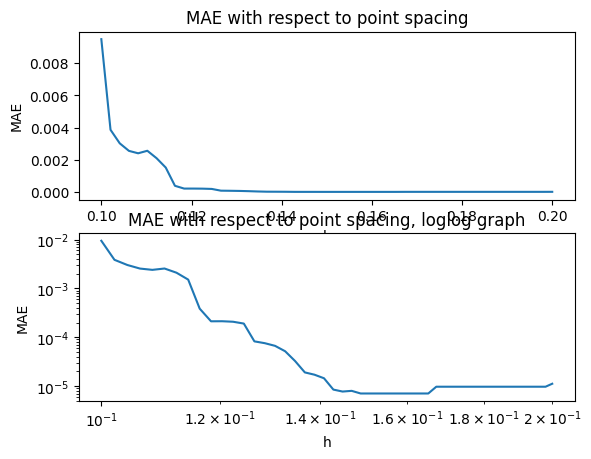
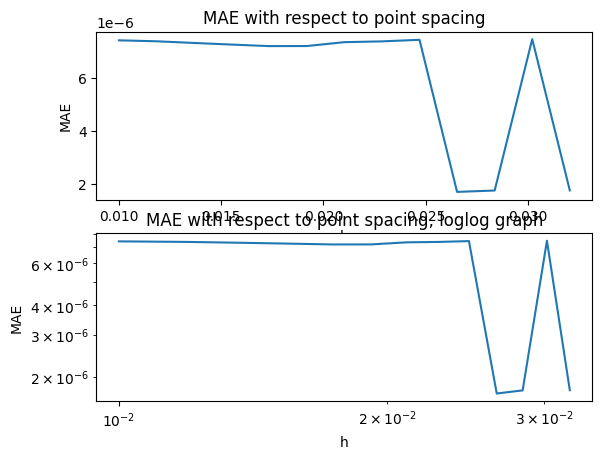
Inclusion of load config

diff --git a/src/PINN_V1/NN_Jax_PDE8.py b/src/PINN_V1/NN_Jax_PDE8.py
@@ -39,7 +39,7 @@ import scipy
 import pickle
 
 # Set and verify device
-jax.config.update('jax_platform_name', 'gpu')
+jax.config.update('jax_platform_name', 'cpu')
 jax.config.update("jax_enable_x64", True)
 #jax.config.update('jax_disable_jit', True) # Desactive the compilation for better debugging
 print(jax.lib.xla_bridge.get_backend().platform)
@@ -381,16 +381,11 @@ layers = [n_features,30,n_targets]      # Layers structure
 num_batches = 20000
 report_steps = 1
 learning_rate = 0.000320408173
-h_list = jax.numpy.linspace(0.05, 0.1, 50)
-load = False
+h_list = jax.numpy.linspace(0.01, 0.1, 50)
+options = 1         # 0 -> Start, 1-> Continue the last training, 2 -> Just plot
 
 
 
-
-    
-    
-    
-    
 
 ###########################################################################################################################
 ################################################### Initialization ########################################################
@@ -409,11 +404,13 @@ mean_absolute_error_list = []
 
 
 
+
 ########################################################################################################
 ################################################## Training ############################################
 ########################################################################################################
-if not load:
+if options == 0:
     count = 0
+    pickle.dump(h_list,open("./NN_saves/h_list", "wb"))
     for h_param in h_list:
         X =  jax.numpy.arange(0, 1, h_param)
         Y = jax.numpy.arange(0, 1, h_param)
@@ -441,10 +438,47 @@ if not load:
         if count%report_steps==report_steps-1:
             print("Step n°{}: ".format(count+1),' of ',len(h_list))
         count += 1 
-    pickle.dump(mean_absolute_error_list,open("./NN_saves/mean_absolute_error_list", "wb"))
-else:
-    mean_absolute_error_list = pickle.load(open("./NN_saves/mean_absolute_error_list", "rb"))
+        pickle.dump(mean_absolute_error_list,open("./NN_saves/mean_absolute_error_list", "wb"))
 
+if options == 1:
+    mean_absolute_error_list = pickle.load(open("./NN_saves/mean_absolute_error_list", "rb"))
+    h_list = pickle.load(open("./NN_saves/h_list", "rb"))
+    count = len(mean_absolute_error_list)
+    for h_param in  h_list[count:]:
+        X =  jax.numpy.arange(0, 1, h_param)
+        Y = jax.numpy.arange(0, 1, h_param)
+        X, Y = jax.numpy.meshgrid(X, Y)
+        XY_train = jax.numpy.column_stack((X.flatten(),Y.flatten()))
+        error_at_step = jax.numpy.inf
+        for ibatch in range(0, num_batches):
+
+            loss, params, opt_state = solver.train_step(params,opt_state, XY_train)
+            loss_history.append(float(loss))
+
+            if loss<=numpy.min(loss_history): # save if the current state is the best 
+                pickle.dump(params,open("./NN_saves/params", "wb"))
+    
+        # get error
+        params = pickle.load(open("./NN_saves/params", "rb"))
+        n_points = 100000
+        ran_key, batch_key = jax.random.split(key)
+        XY_test = jax.random.uniform(batch_key, shape = (n_points, n_features), minval = 0, maxval = 1)
+        predictions = solver.solution(params,XY_test[:,0],XY_test[:,1])[:,0]
+        true_sol = analytical_solution(XY_test)
+        error_at_step = jax.numpy.mean(abs(predictions-true_sol))
+        mean_absolute_error_list.append(error_at_step)
+
+        if count%report_steps==report_steps-1:
+            print("Step n°{}: ".format(count+1),' of ',len(h_list))
+        count += 1 
+        pickle.dump(mean_absolute_error_list,open("./NN_saves/mean_absolute_error_list", "wb"))
+
+
+
+else:
+    h_list = pickle.load(open("./NN_saves/h_list", "rb"))
+    mean_absolute_error_list = pickle.load(open("./NN_saves/mean_absolute_error_list", "rb"))
+    h_list = h_list[:len(mean_absolute_error_list)]
 
 
 
@@ -457,6 +491,7 @@ fig, ax = matplotlib.pyplot.subplots(2)
 ax[0].plot(h_list, mean_absolute_error_list)
 ax[0].set_title('MAE with respect to point spacing')
 ax[0].set(xlabel='h', ylabel='MAE')
+
 ax[1].loglog(h_list, mean_absolute_error_list)
 ax[1].set_title('MAE with respect to point spacing, loglog graph')
 ax[1].set(xlabel='h', ylabel='MAE')
@@ -468,36 +503,3 @@ print(r'with $MAE = C h^{\alpha}$')
 print('C = ', numpy.exp(lin_reg_res.intercept))
 print(r'$\alpha$ =', lin_reg_res.slope)
 
-
-
-
-###########################################################################################################################
-################################################### Uniform Mesh performance ##############################################
-###########################################################################################################################
-
-"""
-h_list = jax.numpy.linspace(0.01, 0.1)
-mean_absolute_error_list = jax.numpy.array([])
-for h_param in h_list:
-    x =  jax.numpy.arange(0, 1, h_param)
-    y = jax.numpy.arange(0, 1, h_param)
-    xx, yy = jax.numpy.meshgrid(x, y)
-
-    # Training du PINN
-    
-    mean_absolute_error_list.append(jax.numpy.mean(error))
-
-fig, ax = matplotlib.pyplot.subplot(2)
-ax[0].plot(h_list, mean_absolute_error_list)
-ax[0].set_title('MAE with respect to point spacing')
-ax[0].set(xlabel='h', ylabel='MAE')
-ax[1].loglog(h_list, mean_absolute_error_list)
-ax[1].set_title('MAE with respect to point spacing, loglog graph')
-ax[1].set(xlabel='h', ylabel='MAE')
-
-lin_reg_res = scipy.stats.linregress(jax.numpy.log(h_list), jax.numpy.log(mean_absolute_error_list))
-print('Linear regression results :')
-print(r'with $MAE = C h^{\alpha}$')
-print('C = ', lin_reg_res.intercept)
-print(r'$\alpha$ =', lin_reg_res.slope)
-"""
